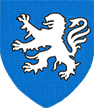
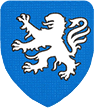
Rounded TP images and added drop shadow (#241)
* Rounded TP images and added drop shadow

* Round corners w css instead

diff --git a/client/src/styles/trading-posts/tp-gameboard.css b/client/src/styles/trading-posts/tp-gameboard.css
@@ -25,7 +25,9 @@
 
 .power >  img {
   height: 4em;
-  aspect-ratio: 41 / 14;
+  aspect-ratio: 42 / 14;
+  box-shadow: 0 0.5em 1em rgb(0 0 0 / 0.4);
+  border-radius: 0.4em;
 }
 
 .power {

diff --git a/client/src/styles/trading-posts/tp-gameboard-otherplayers.css b/client/src/styles/trading-posts/tp-gameboard-otherplayers.css
@@ -13,6 +13,6 @@
 }
 
 .op-coa-image-container img {
-  height: 3em;
+  height: 3.3em;
   aspect-ratio: 27 / 31;
 }
